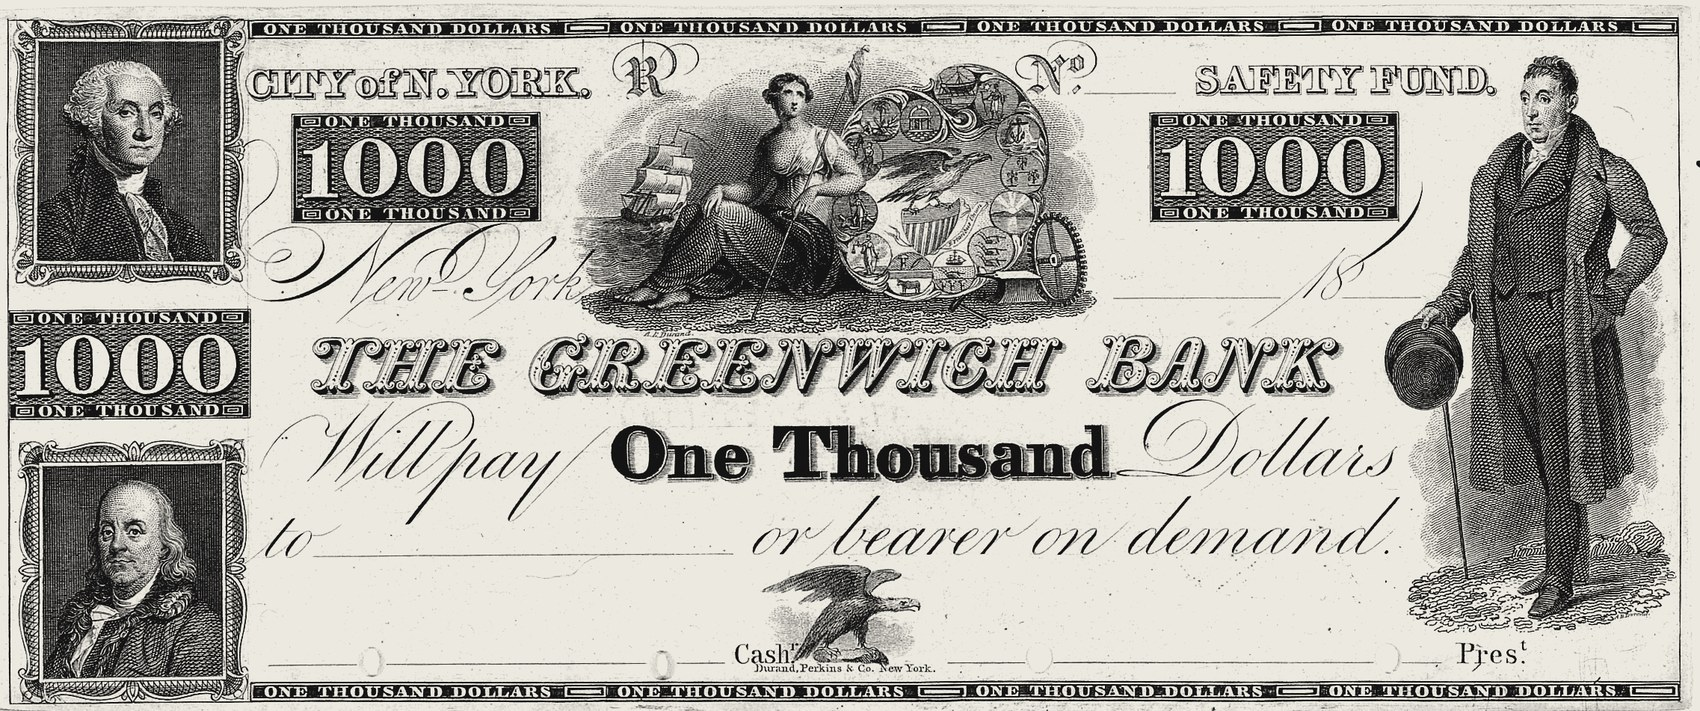
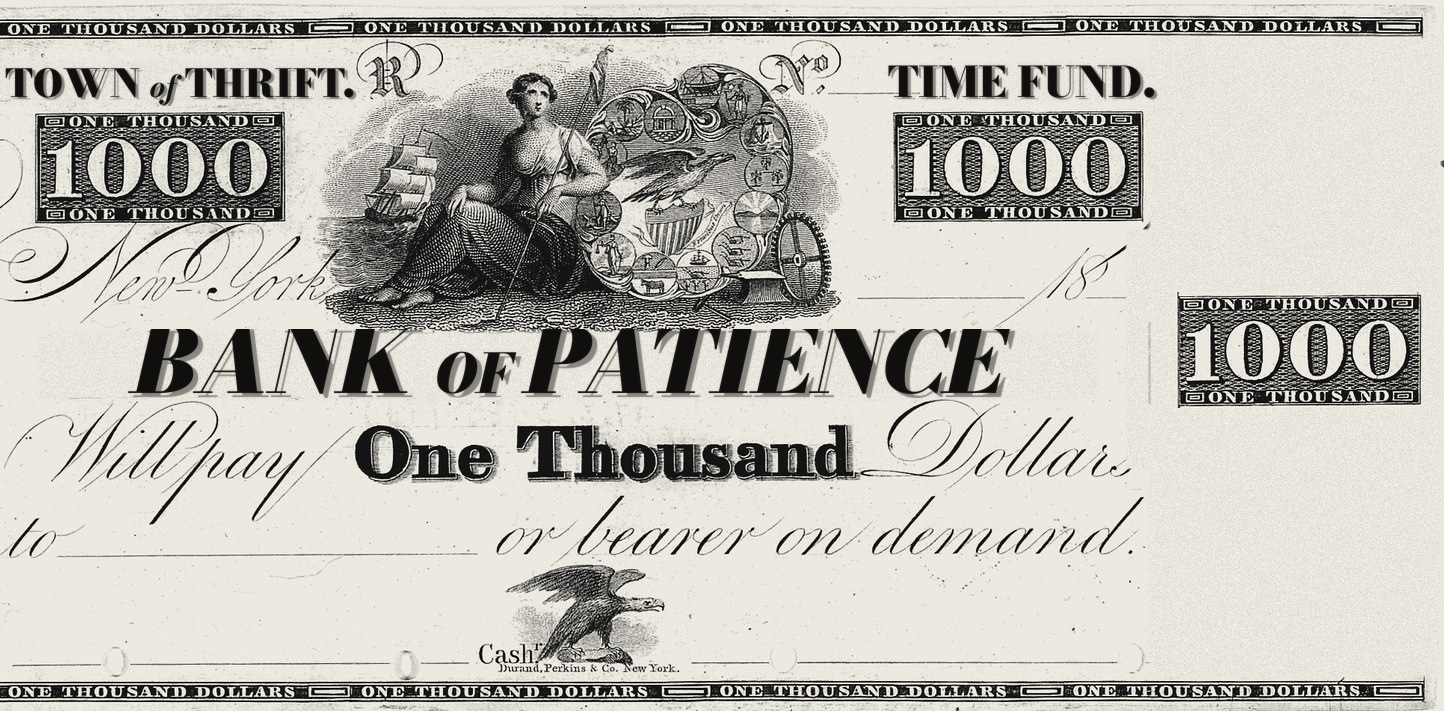
CompoundInterest: fix round-2 critic findings
Fictional $1000 note (relettered, portraits removed), fictional coin token,
simple/compound chart labels, rule-of-72 cut, safe zone, payoff timing.

Claude-Session: https://claude.ai/code/session_01M7b9iMVu4UhgsqBz1aLDbE

diff --git a/src/video/compositions/CompoundInterest.tsx b/src/video/compositions/CompoundInterest.tsx
@@ -298,15 +298,40 @@ const Tab: React.FC<{ num: string; label: string; at: number; f: number }> = ({ 
 /** Slide-in progress for a cut-out: 0 → 1. */
 const slide = (f: number, at: number, dur = 12) => m(f, at, at + dur);
 
+/** A fictional one-dollar token from the "Bank of Patience", engraved in the Newsprint palette. */
+const REEDS = Array.from({ length: 90 }, (_, i) => (i / 90) * Math.PI * 2);
 const Coin: React.FC<{ x: number; y: number; d: number; rot?: number; style?: React.CSSProperties }> = ({ x, y, d, rot = 0, style }) => (
-  <Img
-    src={staticFile("assets/CompoundInterest/coin.png")}
-    style={{ position: "absolute", left: x - d / 2, top: y - d / 2, width: d, height: d, transform: `rotate(${rot}deg)`, filter: SHADOW, ...style }}
-  />
+  <svg
+    viewBox="0 0 200 200"
+    width={d}
+    height={d}
+    style={{ position: "absolute", left: x - d / 2, top: y - d / 2, transform: `rotate(${rot}deg)`, filter: SHADOW, overflow: "visible", ...style }}
+  >
+    <defs>
+      <pattern id="coinHatch" width="5" height="5" patternUnits="userSpaceOnUse" patternTransform="rotate(45)">
+        <line x1="0" y1="0" x2="0" y2="5" stroke={P.ink} strokeWidth="1.1" strokeOpacity="0.32" />
+      </pattern>
+      <path id="coinRing" d="M 100 100 m -70 0 a 70 70 0 1 1 140 0 a 70 70 0 1 1 -140 0" />
+    </defs>
+    <circle cx="100" cy="100" r="98" fill={P.surface} stroke={P.ink} strokeWidth="4" />
+    {REEDS.map((a, i) => (
+      <line key={i} x1={100 + Math.cos(a) * 89} y1={100 + Math.sin(a) * 89} x2={100 + Math.cos(a) * 96} y2={100 + Math.sin(a) * 96} stroke={P.ink} strokeWidth="1.6" />
+    ))}
+    <circle cx="100" cy="100" r="86" fill={P.bg} stroke={P.ink} strokeWidth="2.5" />
+    <circle cx="100" cy="100" r="58" fill="url(#coinHatch)" stroke={P.ink} strokeWidth="2" />
+    <text fontFamily={T.mono} fontWeight={600} fontSize="13.5" letterSpacing="2.2" fill={P.ink}>
+      <textPath href="#coinRing" startOffset="0">
+        BANK OF PATIENCE · ONE DOLLAR ·
+      </textPath>
+    </text>
+    <text x="100" y="128" textAnchor="middle" fontFamily={T.display} fontSize="84" fill={P.ink}>
+      1
+    </text>
+  </svg>
 );
 
 const NOTE1 = { src: "assets/CompoundInterest/note-1.jpg", ratio: 1500 / 661 };
-const NOTE1000 = { src: "assets/CompoundInterest/note-1000.jpg", ratio: 1700 / 711 };
+const NOTE1000 = { src: "assets/CompoundInterest/note-1000.jpg", ratio: 1444 / 711 };
 
 const Note: React.FC<{ note: typeof NOTE1; x: number; y: number; w: number; rot?: number; seed?: number }> = ({ note, x, y, w, rot = 0, seed = 5 }) => {
   const h = w / note.ratio;
@@ -935,8 +960,8 @@ const RuleOf72: React.FC = () => {
     <>
       <Cam k={k} cx={540} cy={1000}>
         <div style={{ position: "absolute", inset: 0, transform: `translate(${shake(f, at72, 12)}px, ${shake(f, at72, 12) * 0.5}px)` }}>
-          <div style={{ position: "absolute", left: 80, top: 400, ...MONO, fontSize: 56 }}>
-            <Typed text="Want a shortcut?" at={RULE + 2} f={f} cps={34} />
+          <div style={{ position: "absolute", left: 80, top: 372, overflow: "hidden", ...DISPLAY, fontSize: 112, paddingBottom: 14 }}>
+            <div style={{ transform: `translateY(${(1 - m(f, RULE - 4, RULE + 6)) * 110}%)` }}>Want a shortcut?</div>
           </div>
           <div style={{ position: "absolute", left: 80, top: 520, overflow: "hidden", ...DISPLAY, fontSize: 170, paddingBottom: 20 }}>
             <div style={{ transform: `translateY(${(1 - ruleIn) * 110}%)` }}>The rule of</div>
@@ -967,7 +992,7 @@ const IndexCard: React.FC = () => {
           <div style={{ position: "absolute", left: 50, top: 200, ...MONO, fontSize: 96, letterSpacing: "0", textTransform: "none", lineHeight: 1.45 }}>
             <Typed text="72 ÷ rate" at={CARD + 4} f={f} cps={22} />
             <br />
-            <Typed text="= years" at={L.l09 + 34} f={f} cps={22} />
+            <Typed text="≈ years" at={L.l09 + 34} f={f} cps={22} />
           </div>
           <div style={{ position: "absolute", left: 50, top: 650, ...MONO, fontSize: 56, letterSpacing: "0", textTransform: "none", opacity: m(f, CARD + 10, CARD + 16) }}>
             rate: <Hi at={CARD + 14} f={f}>6% → 6</Hi>
@@ -1058,16 +1083,16 @@ const TenPercent: React.FC = () => {
 
 // ─── 9. The big chart: $1 at 10% for 72 years ────────────────────────────────────────────────
 
-const X0 = 230;
+const X0 = 275;
 const X1 = 950;
 const Y1 = 660; // plot top (ymax)
 const Y0 = 1290; // baseline ($0)
 const SIMPLE_START = CHART + 36;
 const SIMPLE_END = L.l13 + 28;
 const RED_START = L.l14 + 2;
-const RED_END = L.l14 + 64;
-const NOTE_IN = L.l14 + 80;
-const APPROX_AT = NOTE_IN + 14; // "≈ $1,000" stamp on the note
+const RED_END = L.l14 + 37; // lands on "nine hundred"
+const NOTE_IN = RED_END + 8;
+const APPROX_AT = beat(82); // 1230: "≈ $1,000" stamp on the note, one beat after the $956 hit
 
 const simpleV = (t: number) => 1 + 0.1 * t;
 const compV = (t: number) => Math.pow(1.1, t);
@@ -1089,7 +1114,8 @@ const tickWeights = (ymax: number) => {
   const w = new Map<number, number>();
   for (const st of TICK_STEPS) {
     const sp = (st / ymax) * (Y0 - Y1);
-    const o = smooth((sp - 105) / 25) * (1 - smooth((sp - 300) / 50));
+    // the coarse set fades in exactly as the fine set (2.5x finer) fades out, so labels never crowd or vanish
+    const o = smooth((sp - 105) / 25) * (1 - smooth((sp - 262) / 63));
     if (o <= 0.001) continue;
     for (let k = 1; k * st <= ymax * 1.001; k++) w.set(k * st, Math.max(w.get(k * st) ?? 0, o));
   }
@@ -1117,11 +1143,13 @@ const BigChart: React.FC = () => {
   const counter = counterV < 100 ? `$${counterV.toFixed(2)}` : `$${Math.round(counterV).toLocaleString("en-US")}`;
   const landed = f >= RED_END;
   const punch = landed ? m(f, RED_END, RED_END + 8, 1.12, 1) : 1;
-  const k = (f < L.l14 ? 1 + 0.03 * m(f, CHART, L.l14, 0, 1, lin) : 1.0 + 0.04 * m(f, L.l14, EARLY, 0, 1, lin)) * (landed ? 1 + 0.03 * m(f, RED_END, RED_END + 6) : 1);
+  const k = (f < L.l14 ? 1 + 0.02 * m(f, CHART, L.l14, 0, 1, lin) : 1.0 + 0.02 * m(f, L.l14, EARLY, 0, 1, lin)) * (landed ? 1 + 0.02 * m(f, RED_END, RED_END + 6) : 1);
   const ticks = [...tickWeights(ymax).entries()];
   const fmt = (v: number) => (v >= 100 ? `$${v.toLocaleString("en-US")}` : `$${v % 1 ? v.toFixed(2) : v}`);
   const note = slide(f, NOTE_IN, 12);
   const simpleLabel = m(f, SIMPLE_END + 2, SIMPLE_END + 8);
+  const compLabel = m(f, RED_END + 4, RED_END + 10);
+  const mode = redOn ? "compound" : "simple";
 
   return (
     <Cam k={k} cx={540} cy={900}>
@@ -1137,7 +1165,9 @@ const BigChart: React.FC = () => {
           />
         </Scrap>
         {/* header */}
-        <div style={{ position: "absolute", left: 100, top: 290, ...MONO, fontSize: 44 }}>$1 at 10% a year</div>
+        <div style={{ position: "absolute", left: 100, top: 290, ...MONO, fontSize: 44 }}>
+          $1 at 10% · <span style={{ color: redOn ? RED : P.ink }}>{mode}</span>
+        </div>
         <div style={{ position: "absolute", right: 100, top: 290, ...MONO, fontSize: 44, color: P.muted }}>
           Year <span style={{ color: P.ink, display: "inline-block", minWidth: 56, textAlign: "right" }}>{year}</span>
         </div>
@@ -1196,30 +1226,50 @@ const BigChart: React.FC = () => {
         <div
           style={{
             position: "absolute",
-            left: xOf(72) - 186,
-            top: Math.min(Y0 - 80, yOf(8.2) - 96),
-            width: 186,
+            left: xOf(72) + 16 - 200,
+            top: Math.min(Y0 - 116, yOf(8.2) - 132),
+            width: 200,
+            textAlign: "right",
+            ...MONO,
+            fontSize: 44,
+            lineHeight: 1.05,
+            opacity: simpleLabel,
+          }}
+        >
+          <span style={{ color: P.muted, fontSize: 36 }}>Simple</span>
+          <br />
+          $8.20
+        </div>
+        {/* compound end value rides beside the red dot */}
+        <div
+          style={{
+            position: "absolute",
+            left: xOf(72) - 34 - 420,
+            width: 420,
+            top: yOf(compV(72)) - 30,
             textAlign: "right",
             ...MONO,
             fontSize: 48,
-            opacity: simpleLabel,
-            padding: "4px 0",
+            opacity: compLabel,
+            transform: `translateX(${(1 - compLabel) * -20}px)`,
           }}
         >
-          $8.20
+          <span style={{ background: P.bg, padding: "2px 10px" }}>
+            Compound <span style={{ color: RED }}>$956</span>
+          </span>
         </div>
         {/* the $1,000 note lands in the empty upper-left of the plot */}
         {f >= NOTE_IN && (
           <div style={{ position: "absolute", inset: 0, transform: `translate(${(1 - note) * -1100}px, ${(1 - note) * 80}px) rotate(${(1 - note) * -10}deg)` }}>
-            <Note note={NOTE1000} x={300} y={700} w={480} rot={-5} seed={9} />
+            <Note note={NOTE1000} x={300} y={850} w={480} rot={-5} seed={9} />
           </div>
         )}
-        <Stamp at={APPROX_AT} f={f} x={600} y={930} rot={-8} size={84}>
+        <Stamp at={APPROX_AT} f={f} x={545} y={1085} rot={-8} size={84}>
           ≈ $1,000
         </Stamp>
         {/* footnote */}
-        <div style={{ position: "absolute", left: 100, top: 1384, ...MONO, fontWeight: 400, fontSize: 44, color: P.muted, lineHeight: 1.1 }}>
-          Illustrative. Compounded yearly;
+        <div style={{ position: "absolute", left: 100, top: 1378, ...MONO, fontWeight: 400, fontSize: 38, letterSpacing: "0.01em", color: P.muted, lineHeight: 1.12 }}>
+          Illustrative. {redOn ? "Compounded yearly;" : "Simple interest;"}
           <br />
           no fees, tax or inflation.
         </div>
@@ -1290,6 +1340,7 @@ const Stacks: React.FC = () => {
     <>
       <Cam k={k} cx={540} cy={1000}>
         <div style={{ position: "absolute", left: 80, top: 352, ...MONO, fontSize: 48 }}>Each $1 at 6% a year</div>
+        <div style={{ position: "absolute", left: 80, top: 414, ...MONO, fontWeight: 400, fontSize: 36, color: P.muted }}>Illustrative · compounded yearly</div>
         <NoteStack x={xa} value={STACK_A} grow={gA} />
         <NoteStack x={xb} value={STACK_B} grow={gB} />
         <div style={{ position: "absolute", left: xa, width: NOTE_W, top: STACK_BASE - hA * gA - 70, textAlign: "center", ...MONO, fontSize: 52, opacity: gA }}>
@@ -1402,7 +1453,7 @@ const SoundDesign: React.FC = () => (
     <Sfx name="swish-reverse" at={L.l07 + 34} volume={0.3} />
     {/* rule of 72 */}
     <Sfx name="whoosh" at={RULE - 3} volume={0.4} />
-    <Sfx name="type" at={RULE + 2} volume={0.3} />
+    <Sfx name="whoosh-short" at={RULE + 1} volume={0.3} />
     <Sfx name="impact" at={L.l08 + 45} volume={0.7} />
     <Sfx name="sub-drop" at={L.l08 + 45} volume={0.45} />
     <Sfx name="type" at={CARD + 4} volume={0.3} />
